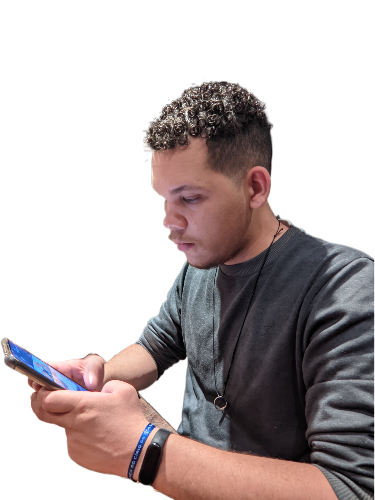
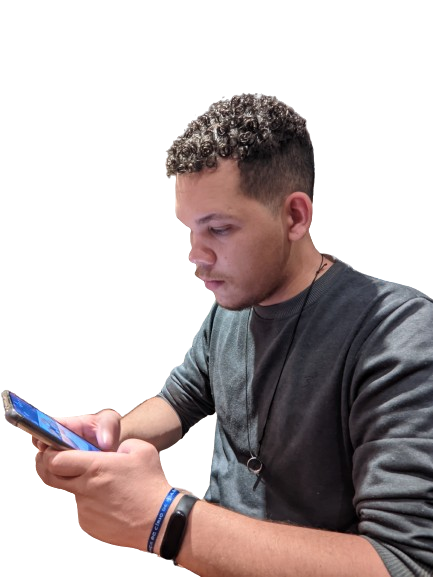
adicionando imagens

diff --git a/index.html b/index.html
@@ -27,6 +27,7 @@
         <!--Seção Cabeçalho--> 
         <h1>GILBERTO MOURA</h1>
         <h2>SUPORTE DE TI, INICIANTE DESENVOLVIMENTO FRONT END.</h2>
+        <img src="img/foto.1.png" alt="Gilberto perfil">
     </header>
     <main>
         <!--Seção Sobre Mim--> 
@@ -39,16 +40,42 @@
         <section>
           
             <h2 class="subtitulo">Hobbies</h2>
-                <nav>
+                <div class="hobbies__box">
                     <ul>
-                        <li><a href="">Prática Voleibol</a></li>
-                        <li><a href="">Viajar</a></li>
-                        <li><a href="">Culinária</a></li>
-                        <li><a href="">Organização Financeira</a></li>
-                        <li><a href="">Jardinagem</a></li>
-                        <li><a href="">Cinema e Séries</a></li>
+                        <li class="hobbies__img"><img src="assets\skate_icon.png"></li>
+                        <li class="hobbies__name">Jogar Voleibol</li>
                     </ul>
-                </nav>
+                </div>
+                <div class="hobbies__box">
+                    <ul>
+                        <li class="hobbies__img"><img src="assets\skate_icon.png"></li>
+                        <li class="hobbies__name">Viajar</li>
+                    </ul>
+                </div>
+                <div class="hobbies__box">
+                    <ul>
+                        <li class="hobbies__img"><img src="assets\skate_icon.png"></li>
+                        <li class="hobbies__name">Culinária</li>
+                    </ul>
+                </div>
+                <div class="hobbies__box">
+                    <ul>
+                        <li class="hobbies__img"><img src="assets\skate_icon.png"></li>
+                        <li class="hobbies__name">Organização Financeira</li>
+                    </ul>
+                </div>
+                <div class="hobbies__box">
+                    <ul>
+                        <li class="hobbies__img"><img src="assets\skate_icon.png"></li>
+                        <li class="hobbies__name">Jardinagem</li>
+                    </ul>
+                </div>
+                <div class="hobbies__box">
+                    <ul>
+                        <li class="hobbies__img"><img src="assets\skate_icon.png"></li>
+                        <li class="hobbies__name">Cinema e Séries</li>
+                    </ul>
+                </div>
             <h2 class="subtitulo">Soft Skills</h2>
                 <nav>
                     <ul>
@@ -59,7 +86,7 @@
                     </ul>
                 </nav>
             <h2 class="subtitulo">Hard Skills</h2>
-            <nav>
+                
                 <ul>
                     <li><h3>Análise de Dados e Relatórios</h3><p>Excel:
                         Manipulação, análise, visualização de dados e automação de tarefas com macros.</p><p>Report Builder: Criação de relatórios personalizados simples</p><p>SQL Básico: Consultas de banco de dados, manipulação e extração de dados</p></li>
@@ -67,10 +94,8 @@
                     <li><h3>Manutenção e Instalação Windows</h3><p>Instalação e configuração do sistema operacional Windows, solução de problemas e manutenção de sistemas</p></li>
                     <li><h3>Tecnologia da Informação e Suporte Técnico</h3><p></p><p>Comandos Linux Básicos: Navegação e gestão de arquivos no Linux.</p></li>
                     <li><h3>Design Gráfico e Modelagem 3D</h3><p>Adobe Photoshop: Edição e manipulação de imagens.</p><p>SketchUp: Criar modelos arquitetônicos detalhados de edifícios, casas, paisagens, espaços interiores e desenvolver layouts de interiores, incluindo mobiliário, decoração e disposição de espaços.</p></li>
-                    <li><h3>Design de Interface (UI)</h3><p>Figma: Prototipagem interativa e design colaborativo.</p></li>
-                    
+                    <li><h3>Design de Interface (UI)</h3><p>Figma: Prototipagem interativa e design colaborativo.</p></li> 
                 </ul>
-            </nav>
         </section>
         <!--Seção Formações + Cursos-->
         <section>
@@ -85,15 +110,14 @@
         <!--Formulário de Contato-->
         <section>
             <h2 class="subtitulo">Disponível para oportunidades</h2>
-            <nav>
                 <ul>
-                    <li><a href=""><img src="img/WhatsApp.png" alt="logo do WhatsApp">WhatsApp</a></li>
-                    <li><a href=""><img src="img/email.png" alt="logo de email">E-mail</a></li>
-                    <li><a href=""><img src="img/linkedin.png" alt="logo do linkedin">LinkedIn</a></li>
-                    <li><a href=""><img src="img/Github.png" alt="logo do GitHub">GitHub</a></li>
-                    <li><a href=""><img src="img/instagram.png" alt="logo do Instagram">Instagram</a></li>
+                    <li><a href=""><img src="img/WhatsApp 50px.png" alt="logo do WhatsApp">WhatsApp</a></li>
+                    <li><a href=""><img src="img/e-mail 50px.png" alt="logo de email">E-mail</a></li>
+                    <li><a href=""><img src="img/Linkedin 50px.png" alt="logo do linkedin">LinkedIn</a></li>
+                    <li><a href=""><img src="img/GitHub 50px.png" alt="logo do GitHub">GitHub</a></li>
+                    <li><a href=""><img src="img/Instagram 50px.png" alt="logo do Instagram">Instagram</a></li>
                 </ul>
-            </nav>
+            
         </section>
     </main>
     <!--Footer/Rodapé-->
